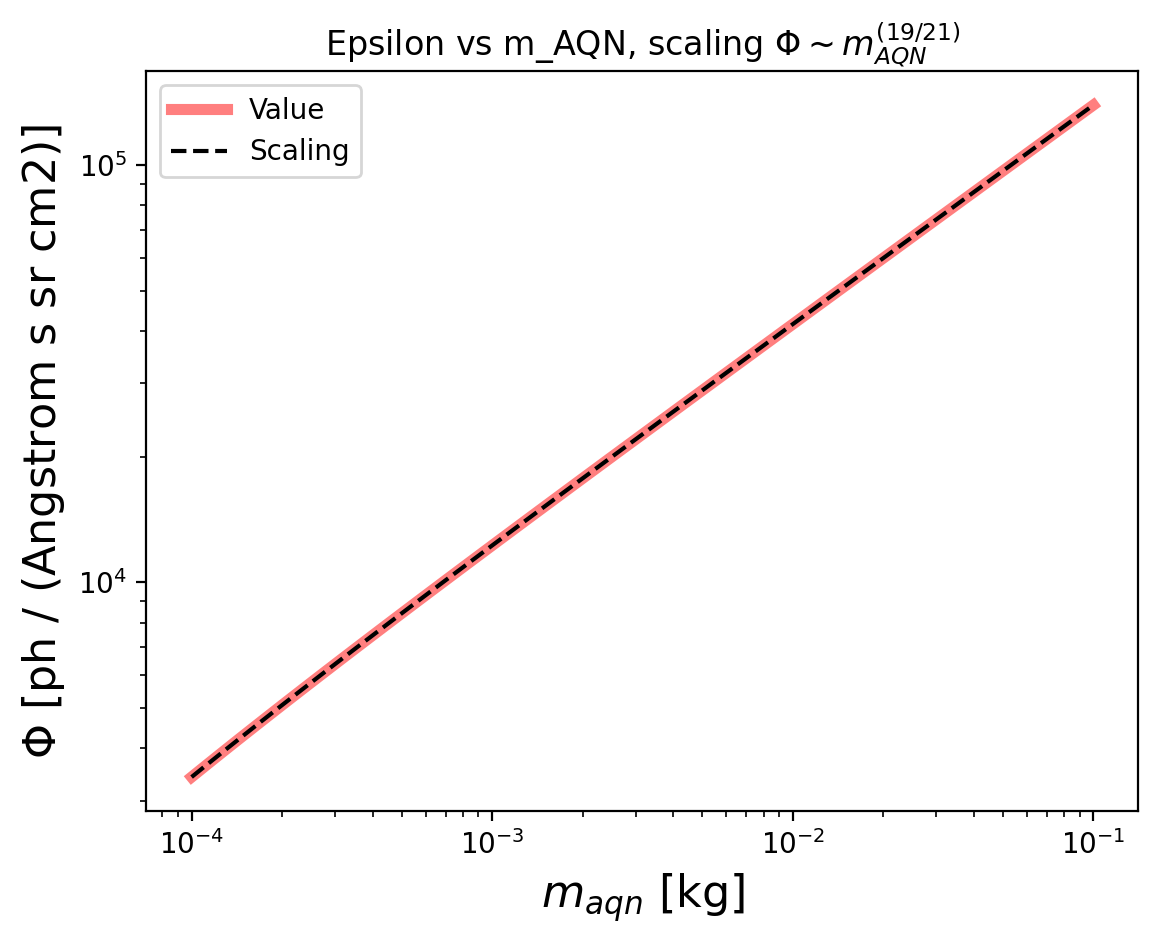
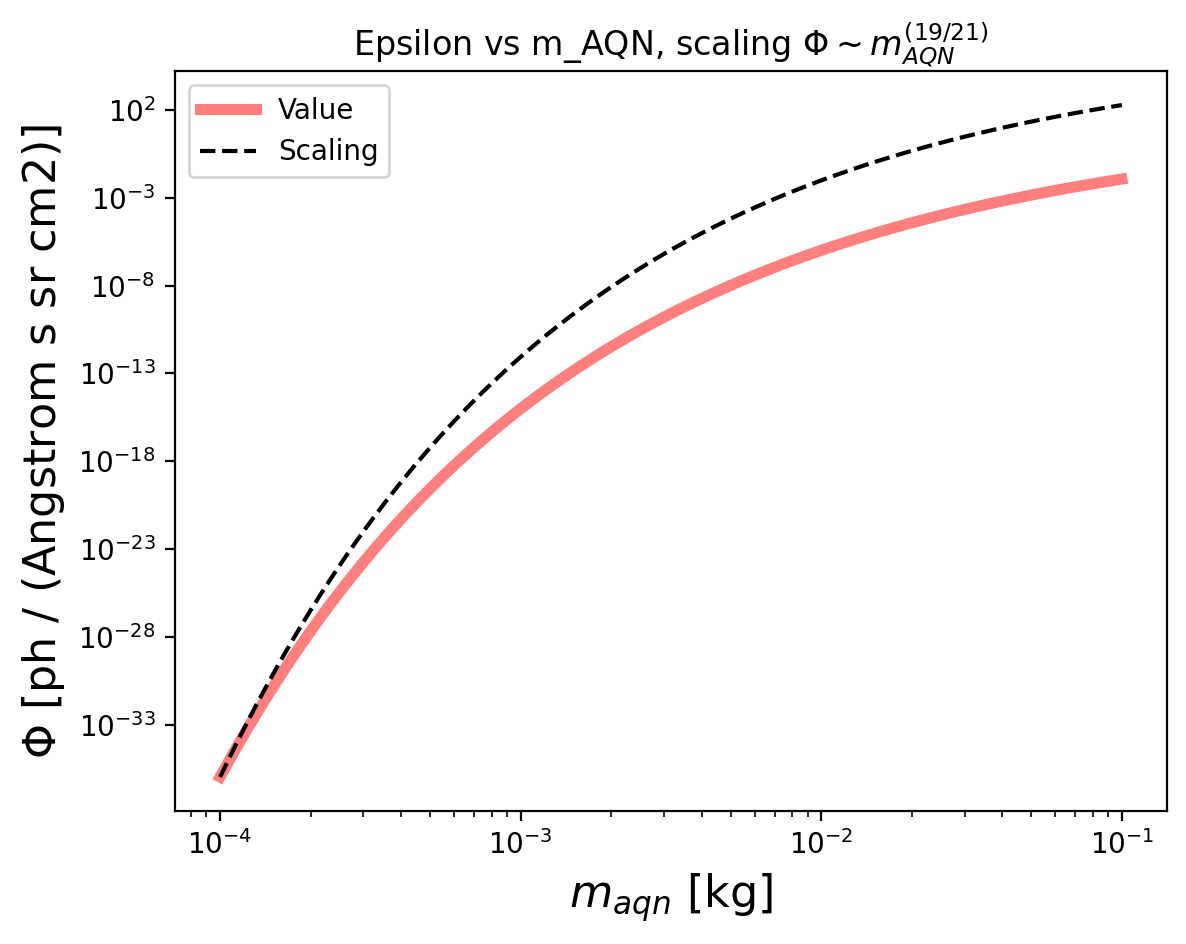
some changes during meeting

diff --git a/processing/notebook_functions.py b/processing/notebook_functions.py
@@ -542,102 +542,117 @@ def epsilon_parameter_relations_study(quant_original, m_aqn_kg, frequency_band):
     v = velocity_array
     scaling_relation = epsilon_array[0] * (v/(v[0]))**(13/7) * H(x) / H(x[0])
 
+    plt.plot(velocity_array, scaling_relation*epsilon_to_photon, "--", color="blue", label="Scaling Original")
+
 
     # code below attempts to implement frequency band integration for the scaling relationship
-    # dnu = frequency_band[1] - frequency_band[0]
-    # nu_range = np.max(frequency_band) - np.min(frequency_band)
-    # T = t_aqn_i_array * eV_to_erg
-    # v = velocity_array
-    # scaling_relation = np.zeros(parameter_array_length) * epsilon_units
-    # for nu in frequency_band:
-    #     w = 2 * np.pi * nu * Hz_to_erg
-    #     x = w/T
-    #     scaling_relation += epsilon_array[0] * (v/(v[0]))**(13/7) * H(x) / H(x[0]) * dnu/nu_range
+    def to_skymap_units(F_erg_hz_cm2,nu):
+
+        w = nu.to(u.AA, equivalencies=u.spectral())
+        C = (erg_hz_cm2).to(photon_units*u.sr, u.spectral_density(w))
+
+        return F_erg_hz_cm2 * C / erg_hz_cm2 * 2*np.pi
+
+
+
+    dnu = frequency_band[1] - frequency_band[0]
+    nu_range = np.max(frequency_band) - np.min(frequency_band)
+    T = t_aqn_i_array * eV_to_erg
+    v = velocity_array
+    scaling_relation = np.zeros(parameter_array_length) * photon_units
+    for nu in frequency_band:
+        w = 2 * np.pi * nu * Hz_to_erg
+        x = w/T
+        res = (v/(v[0]))**(13/7) * H(x) / H(x[0]) * erg_hz_cm2
+        print(res)
+        res = to_skymap_units(res, nu) / u.sr
+        print(res)
+        scaling_relation += res * dnu/nu_range
 
     # print(np.mean(scaling_relation - epsilon_array) * epsilon_to_photon)
 
     # for i in range(len(velocity_array)):
     #     print(velocity_array[i].value, (scaling_relation[i]*epsilon_to_photon).value, (epsilon_array[i]*epsilon_to_photon).value)
     
-    plt.plot(velocity_array, scaling_relation*epsilon_to_photon, "--", color="black", label="Scaling")
+    plt.plot(velocity_array, epsilon_array[0] * scaling_relation, "--", color="black", label="Scaling")
     plt.title(r"Epsilon, scaling $\Phi\sim \Delta v^{13/7}$")
     ax.set_xscale("log")
     ax.set_yscale("log")
     plt.legend()
     plt.savefig(parameter_relations_save_location+"epsilon_vs_dv.png", bbox_inches="tight")
 
-    quant = quant_original.copy()
+    # quant = quant_original.copy()
 
-    ioni_gas_array = np.logspace(-4, -1, 100) * 1/u.cm**3
-    epsilon_array, t_aqn_i_array = parameter_variation(quant, m_aqn_kg, frequency_band, "ioni_gas", ioni_gas_array)
+    # ioni_gas_array = np.logspace(-4, -1, 100) * 1/u.cm**3
+    # epsilon_array, t_aqn_i_array = parameter_variation(quant, m_aqn_kg, frequency_band, "ioni_gas", ioni_gas_array)
 
-    T = t_aqn_i_array * eV_to_erg
-    w = 2 * np.pi * np.mean(frequency_band) * Hz_to_erg
-    x = w/T
+    # T = t_aqn_i_array * eV_to_erg
+    # w = 2 * np.pi * np.mean(frequency_band) * Hz_to_erg
+    # x = w/T
 
-    scaling_relation = epsilon_array[0] * (ioni_gas_array/ioni_gas_array[0])**(13/7) * H(x) / H(x[0])
-    # print(np.mean(scaling_relation - epsilon_array) * epsilon_to_photon)
-    fig, ax = plot_parameter_variation(r"$n_{ion}$ [1/cm$^3$]", r"$\Phi$ "+"["+str(photon_units.unit)+"]", ioni_gas_array, 
-        epsilon_array*epsilon_to_photon)
-    # plot_scaling_relation(ax, ioni_gas_array, 4/7, np.min(T_AQN_array))
-    plt.plot(ioni_gas_array, scaling_relation*epsilon_to_photon, "--", color="black", label="Scaling")
+    # scaling_relation = epsilon_array[0] * (ioni_gas_array/ioni_gas_array[0])**(13/7) * H(x) / H(x[0])
+    # # print(np.mean(scaling_relation - epsilon_array) * epsilon_to_photon)
+    # fig, ax = plot_parameter_variation(r"$n_{ion}$ [1/cm$^3$]", r"$\Phi$ "+"["+str(photon_units.unit)+"]", ioni_gas_array, 
+    #     epsilon_array*epsilon_to_photon)
+    # # plot_scaling_relation(ax, ioni_gas_array, 4/7, np.min(T_AQN_array))
+    # plt.plot(ioni_gas_array, scaling_relation*epsilon_to_photon, "--", color="black", label="Scaling")
 
-    plt.title(r"Epsilon vs n_ion, scaling $\Phi\sim n_{ion}^{(13/7)}$")
-    ax.set_xscale("log")
-    ax.set_yscale("log")
-    plt.legend()
-    plt.savefig(parameter_relations_save_location+"epsilon_vs_ioni_gas.png", bbox_inches="tight")
-
-
-    quant = quant_original.copy()
-
-    m_aqn_kg_array = np.logspace(-4, -1, 100) * u.kg
-    epsilon_array, t_aqn_i_array = parameter_variation(quant, m_aqn_kg, frequency_band, "aqn_mass", m_aqn_kg_array, True)
-
-    T = t_aqn_i_array * eV_to_erg
-    w = 2 * np.pi * np.mean(frequency_band) * Hz_to_erg
-    x = w/T
-
-    scaling_relation = epsilon_array[0] * (m_aqn_kg_array/m_aqn_kg_array[0])**(19/21) * H(x) / H(x[0])
-    # print(np.mean(scaling_relation - epsilon_array) * epsilon_to_photon)
-    fig, ax = plot_parameter_variation(r"$m_{aqn}$ [kg]", r"$\Phi$ "+"["+str(photon_units.unit)+"]", m_aqn_kg_array, epsilon_array*epsilon_to_photon)
-    plt.plot(m_aqn_kg_array, scaling_relation*epsilon_to_photon, "--", color="black", label="Scaling")
-
-    plt.title(r"Epsilon vs m_AQN, scaling $\Phi\sim m_{AQN}^{(19/21)}$")
-    ax.set_xscale("log")
-    ax.set_yscale("log")
-    plt.legend()
-    plt.savefig(parameter_relations_save_location+"epsilon_vs_m_aqn.png", bbox_inches="tight")
+    # plt.title(r"Epsilon vs n_ion, scaling $\Phi\sim n_{ion}^{(13/7)}$")
+    # ax.set_xscale("log")
+    # ax.set_yscale("log")
+    # plt.legend()
+    # plt.savefig(parameter_relations_save_location+"epsilon_vs_ioni_gas.png", bbox_inches="tight")
 
 
-    quant = quant_original.copy()
+    # quant = quant_original.copy()
 
-    T_gas_array = np.logspace(2, 6, 100) * u.K
-    T_gas_eff_array = np.zeros(len(T_gas_array)) * u.K
-    epsilon_array = np.zeros(len(T_gas_array)) * epsilon_units
-    t_aqn_i_array = np.zeros(parameter_array_length) * u.eV
-    for i, T_gas in enumerate(T_gas_array):
-        quant["temp_ion"] = T_gas
-        enforce_units(quant)
-        res = compute_epsilon_ionized(quant, m_aqn_kg, frequency_band)
-        epsilon_array[i] = res["aqn_emit"]
-        T_gas_eff_array[i] = res["temp_ion_eff"] / K_to_eV
-        t_aqn_i_array[i] = res["t_aqn_i"]
-        # print(T_gas, epsilon_array[i])
-    T = t_aqn_i_array * eV_to_erg
-    w = 2 * np.pi * np.mean(frequency_band) * Hz_to_erg
-    x = w/T
+    # m_aqn_kg_array = np.logspace(-4, -1, 100) * u.kg
+    # epsilon_array, t_aqn_i_array = parameter_variation(quant, m_aqn_kg, frequency_band, "aqn_mass", m_aqn_kg_array, True)
 
-    scaling_relation = epsilon_array[0] * (T_gas_eff_array/T_gas_eff_array[0])**(-26/7) * H(x) / H(x[0])
-    # print(np.mean(scaling_relation - epsilon_array) * epsilon_to_photon)
-    fig, ax = plot_parameter_variation(r"$T_{gas eff}$ [K]", r"$\Phi$ "+"["+str(photon_units.unit)+"]", T_gas_eff_array, epsilon_array*epsilon_to_photon)
-    plt.plot(T_gas_eff_array, scaling_relation*epsilon_to_photon, "--", color="black", label="Scaling")
-    # plot_scaling_relation(ax, T_gas_eff_array, -8/7, np.min(t_aqn_i_array))
-    plt.title(r"$\epsilon$ vs T_gas_eff, scaling $\Phi\sim T_{g,eff}^{(-26/7)}$")
-    ax.set_xscale("log")
-    ax.set_yscale("log")
-    plt.legend()
-    plt.savefig(parameter_relations_save_location+"epsilon_vs_t_gas_eff.png", bbox_inches="tight")
+    # T = t_aqn_i_array * eV_to_erg
+    # w = 2 * np.pi * np.mean(frequency_band) * Hz_to_erg
+    # x = w/T
+
+    # scaling_relation = epsilon_array[0] * (m_aqn_kg_array/m_aqn_kg_array[0])**(19/21) * H(x) / H(x[0])
+    # # print(np.mean(scaling_relation - epsilon_array) * epsilon_to_photon)
+    # fig, ax = plot_parameter_variation(r"$m_{aqn}$ [kg]", r"$\Phi$ "+"["+str(photon_units.unit)+"]", m_aqn_kg_array, epsilon_array*epsilon_to_photon)
+    # plt.plot(m_aqn_kg_array, scaling_relation*epsilon_to_photon, "--", color="black", label="Scaling")
+
+    # plt.title(r"Epsilon vs m_AQN, scaling $\Phi\sim m_{AQN}^{(19/21)}$")
+    # ax.set_xscale("log")
+    # ax.set_yscale("log")
+    # plt.legend()
+    # plt.savefig(parameter_relations_save_location+"epsilon_vs_m_aqn.png", bbox_inches="tight")
+
+
+    # quant = quant_original.copy()
+
+    # T_gas_array = np.logspace(2, 6, 100) * u.K
+    # T_gas_eff_array = np.zeros(len(T_gas_array)) * u.K
+    # epsilon_array = np.zeros(len(T_gas_array)) * epsilon_units
+    # t_aqn_i_array = np.zeros(parameter_array_length) * u.eV
+    # for i, T_gas in enumerate(T_gas_array):
+    #     quant["temp_ion"] = T_gas
+    #     enforce_units(quant)
+    #     res = compute_epsilon_ionized(quant, m_aqn_kg, frequency_band)
+    #     epsilon_array[i] = res["aqn_emit"]
+    #     T_gas_eff_array[i] = res["temp_ion_eff"] / K_to_eV
+    #     t_aqn_i_array[i] = res["t_aqn_i"]
+    #     # print(T_gas, epsilon_array[i])
+    # T = t_aqn_i_array * eV_to_erg
+    # w = 2 * np.pi * np.mean(frequency_band) * Hz_to_erg
+    # x = w/T
+
+    # scaling_relation = epsilon_array[0] * (T_gas_eff_array/T_gas_eff_array[0])**(-26/7) * H(x) / H(x[0])
+    # # print(np.mean(scaling_relation - epsilon_array) * epsilon_to_photon)
+    # fig, ax = plot_parameter_variation(r"$T_{gas eff}$ [K]", r"$\Phi$ "+"["+str(photon_units.unit)+"]", T_gas_eff_array, epsilon_array*epsilon_to_photon)
+    # plt.plot(T_gas_eff_array, scaling_relation*epsilon_to_photon, "--", color="black", label="Scaling")
+    # # plot_scaling_relation(ax, T_gas_eff_array, -8/7, np.min(t_aqn_i_array))
+    # plt.title(r"$\epsilon$ vs T_gas_eff, scaling $\Phi\sim T_{g,eff}^{(-26/7)}$")
+    # ax.set_xscale("log")
+    # ax.set_yscale("log")
+    # plt.legend()
+    # plt.savefig(parameter_relations_save_location+"epsilon_vs_t_gas_eff.png", bbox_inches="tight")
 
 
 

diff --git a/processing/aqn.py b/processing/aqn.py
@@ -225,14 +225,14 @@ def compute_epsilon_ionized(cubes_import, m_aqn_kg, frequency_band):
 
     cubes["aqn_emit"] = np.zeros(np.shape(cubes["t_aqn_i"])) * photon_units
     
-    # for nu in frequency_band:
-    #     cubes["aqn_emit"] += to_skymap_units(spectral_surface_emissivity(nu, 
-    #                        cubes["t_aqn_i"])/(dOmega)*dnu/nu_range, nu)        
+    for nu in frequency_band:
+        cubes["aqn_emit"] += to_skymap_units(spectral_surface_emissivity(nu, 
+                           cubes["t_aqn_i"])/(dOmega)*dnu/nu_range, nu)        
 
     # vvv omit frequency band integration, use mean of frequency band instead: vvv
-    nu_mean = np.mean(frequency_band)
-    cubes["aqn_emit"] = to_skymap_units(spectral_surface_emissivity(nu_mean, 
-                           cubes["t_aqn_i"])/(dOmega), nu_mean) 
+    # nu_mean = np.mean(frequency_band)
+    # cubes["aqn_emit"] = to_skymap_units(spectral_surface_emissivity(nu_mean, 
+    #                        cubes["t_aqn_i"])/(dOmega), nu_mean) 
 
     cubes["aqn_emit"] = cubes["aqn_emit"] * 4 * np.pi * R_aqn_cm**2 * \
                        (cubes["dark_mat"] / m_aqn_kg).to(1/u.cm**3) * u.sr

diff --git a/processing/testing-velocity-distribution.py b/processing/testing-velocity-distribution.py
@@ -122,7 +122,7 @@ quant = {
     'dark_mat': np.array([0.3]) * u.GeV/u.cm**3 * GeV_to_g,
     'ioni_gas': np.array([0.01]) * 1/u.cm**3,
     'neut_gas': np.array([0]) * 1/u.cm**3, 
-    'temp_ion': np.array([1e4]) * u.K, 
+    'temp_ion': np.array([1e6]) * u.K, 
     'dv_ioni':  np.array([300]) * u.km/u.s, 
     'dv_neut':  np.array([200]) * u.km/u.s,
 }
